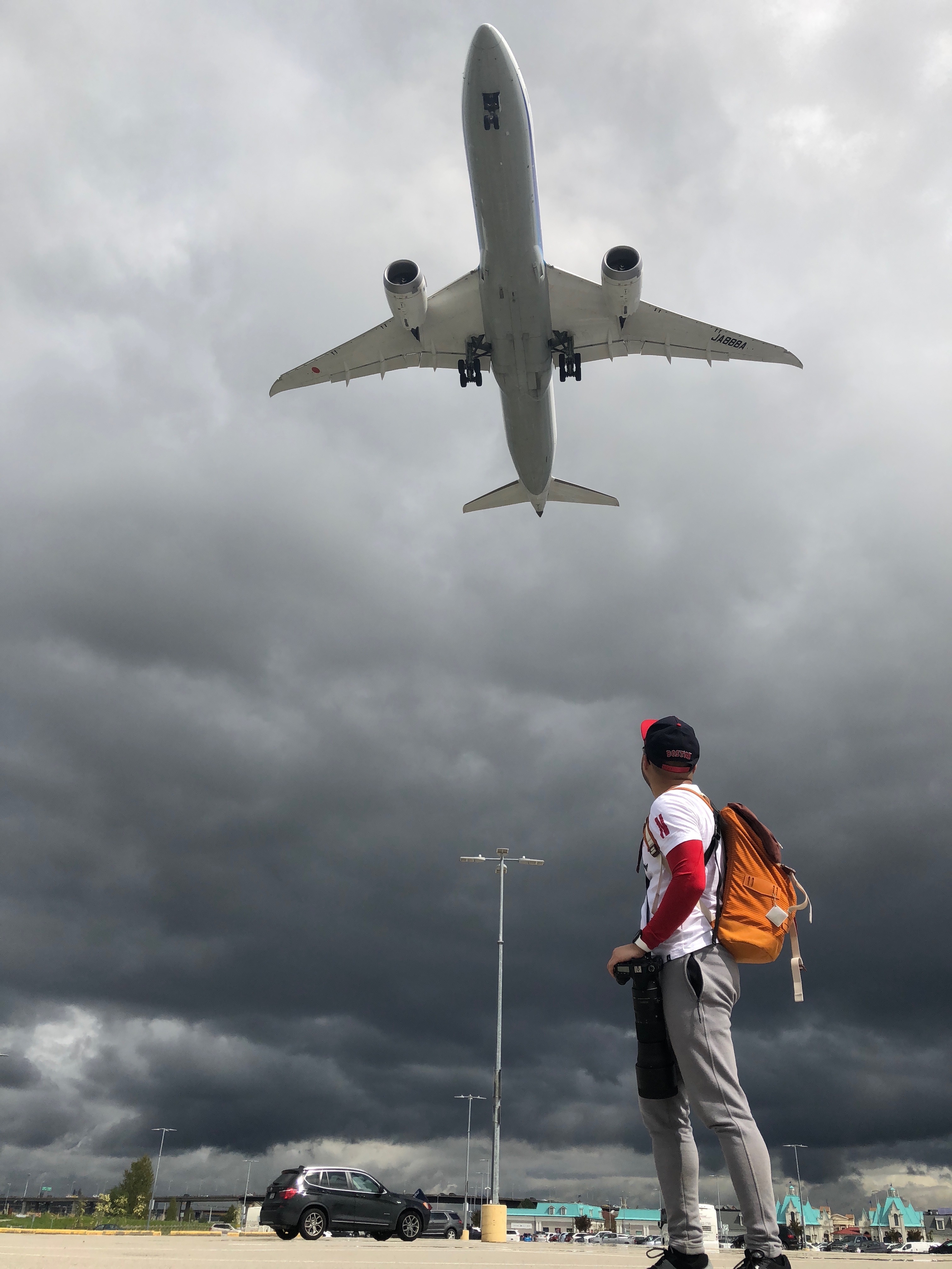
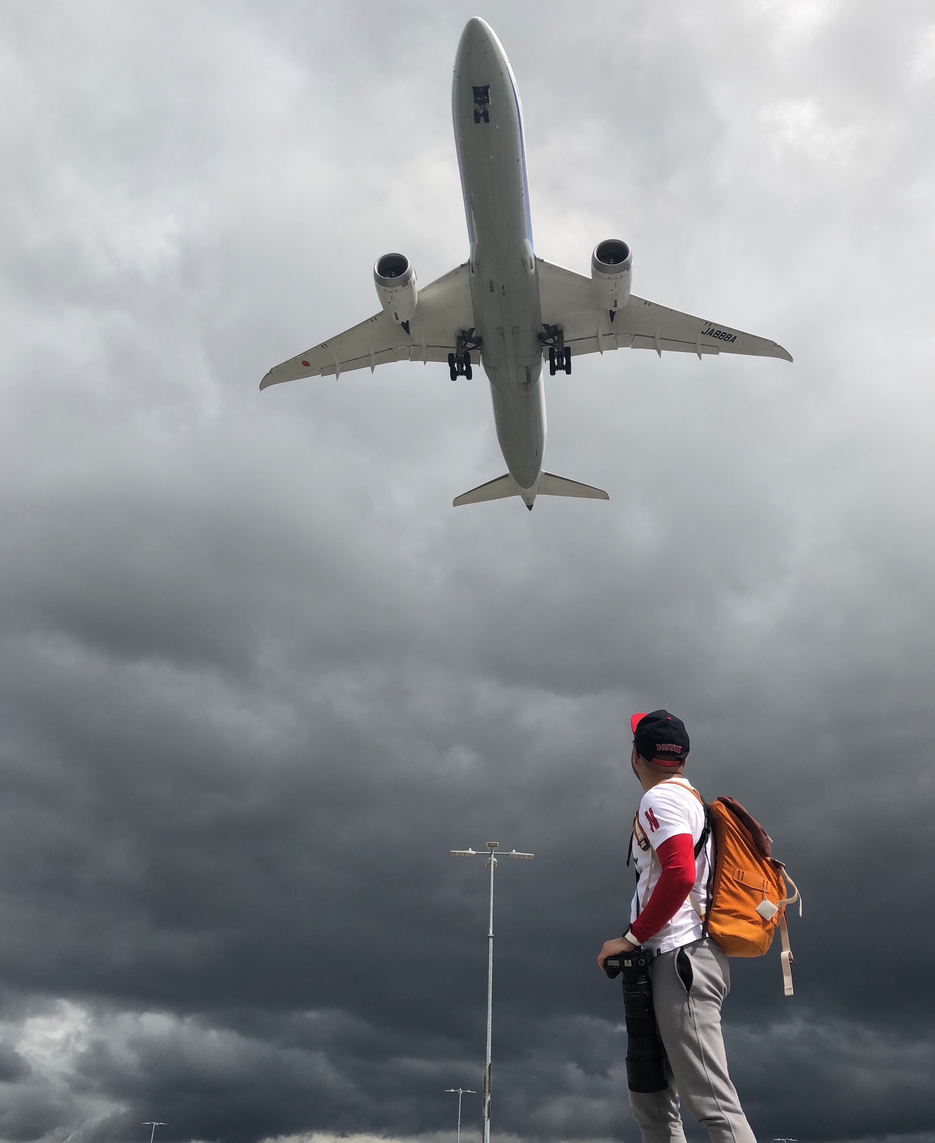
css changed on background images and font. add portfolio section

diff --git a/public/stylesheets/main.css b/public/stylesheets/main.css
@@ -25,30 +25,38 @@ body {
 
 #firstBackground{
   background-image: url('../images/mikeHiking.jpeg');
-  min-height: 500px; 
+  min-height: 870px; 
 }
 
 #secondBackground{
   /* opacity: 0.80; */
   background-image: url('../images/meNaircraft.JPG');
-  height: 535px; 
+  height: 800px; 
   background-position: left;
   background-size: contain;
+}
+
+#thirdBackground{
+  background-image: url('../images/vanNightScene.JPG');
+  min-height: 900px; 
 }
 
 /* ----------- general section css ----------- */
 
 #firstSection{
   background-color: rgb(238, 238, 238);
+  padding: 30px;
+  /* background-color: white; */
+}
+
+#secondBackground{
+  /* background-color: rgb(238, 238, 238); */
+  background-color: white;
 }
 
 .content{
   margin: 0 auto;
   width: 100%;
-}
-
-#secondSection{
-  background-color: white;
 }
 
 /* ----------- SECTION CSS ----------- */
@@ -66,12 +74,12 @@ body {
   display: flex;
   flex-direction: column;
   color: #fff;
-  font-size: 15px;
+  font-size: 30px;
 }
 
 #nameTitle {
   color: #fff;
-  font-size: 25px;
+  font-size: 65px;
   letter-spacing: 10px;
 } 
 
@@ -79,13 +87,13 @@ body {
   
   display: flex;
   flex-direction: column;
-  margin-left: 15%;
-  margin-right: 15%;
-  width: 70%;
+  margin-left: 22%;
+  margin-right: 22%;
+  width: 56%;
 }
 
 .aboutMikeSection > div{
-  font-size: 15px;
+  font-size: 17px;
 }
 
 .mikeHeader{
@@ -95,7 +103,7 @@ body {
 }
 
 #mikeHeaderTitle{
-  font: 20px;
+  font-size: 25px;
 }
 
 .mikeBackground{
@@ -103,6 +111,11 @@ body {
   text-align: center;
   display: flex;
   flex-direction: column;
+}
+
+#backgroundDescription{
+  font-size: 22px;
+  margin: 0px;
 }
 
 .mikeDetails{
@@ -114,18 +127,20 @@ body {
   width: 100%;
   margin: 5px;
   text-align: left;
-  font-size: 12px;
+  font-size: 17px;
 }
 
-#skillSetTitle, #educationTitle, #expTitle {
+#skillSetTitle, #educationTitle, #expTitle, #portfolioHeader {
   margin: 0px;
   color: blue;
   font-weight: bold;
   font-family: "Brandon Grotesque";
+  font-size: 24px;
 }
 
 .skillSubTitle{
   margin: 10px;
+  font-size: 17px;
   font-family: "Brandon Grotesque";
 }
 
@@ -136,6 +151,7 @@ body {
 .skillLi{
   color: orange;
   font-weight: bold;
+  font-size: 18px;
 }
 
 li{
@@ -145,23 +161,23 @@ li{
 #expSection{
   display: flex;
   flex-direction: row;
-  margin: 20px;
+  padding: 20px;
 }
 
-#expSection > div{
-  font-size: 12px;
+#expSection, #portfolioGroup > div{
+  font-size: 17px;
 }
 
 #expList{
   margin-left: 45%; 
   margin-top: 30px;
   width: 45%;
-  background-color: rgb(238, 238, 238);
-  padding: 10px;
+  /* background-color: white; */
+  padding: 25px 25px 25px 50px;
 }
 
 #expGroup{
-  margin-top: 5px;
+  margin-top: 25px;
 }
 
 .expPosition{
@@ -178,9 +194,28 @@ li{
 .companyLogo{
   width: 150px;
   margin: 20px;
-  border-radius: 15px;
+  border-radius: 17px;
 }
 
-.expUl{
-  color: #50555c;
+#portfolioGroup{
+  display: flex;
+  flex-direction: column;
+  text-align: center;
+  padding: 30px 7% 30px 7%;
+}
+
+#portfolioContent{
+  display: flex;
+  flex-direction: row;
+  justify-content: center;
+}
+
+#portfolioContent > div{
+  margin: 10px;
+  width: 28%;
+  text-align: left;
+}
+
+#portfolioHeader{
+  margin-bottom: 10px;
 }
